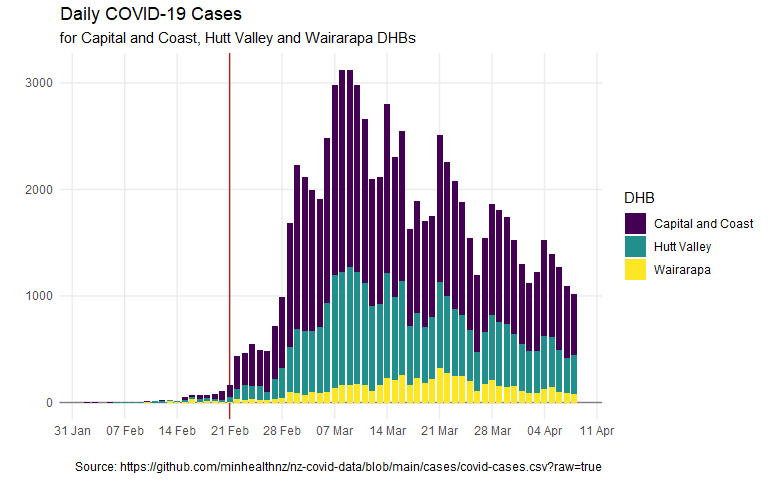
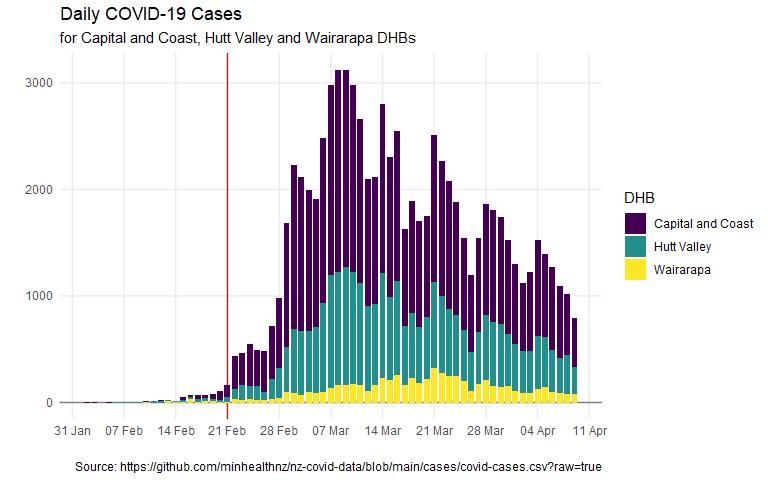
Refresh for 20220410

Changed region(s): [[0.125, 0.125, 0.8125, 0.9062]]

diff --git a/covid-time-series.md b/covid-time-series.md
@@ -18,7 +18,7 @@ cases_df <- read_csv(case_data_url) %>%
 
     ## Warning: One or more parsing issues, see `problems()` for details
 
-    ## Rows: 760540 Columns: 7
+    ## Rows: 767295 Columns: 7
 
     ## -- Column specification --------------------------------------------------------
     ## Delimiter: ","
@@ -145,7 +145,7 @@ maxima <- dhb_cases_stl_df %>%
   summarise(cases = max(cases), adjusted = max(season_adjust), trend = max(trend))
 ```
 
-Looking at raw case numbers, the peak on 2022-03-09 was about 3.1 times what it is now.
+Looking at raw case numbers, the peak on 2022-03-09 was about 3.9 times what it is now.
 
 But when adjusting for the weekly pattern, it was 2.9 times the current adjusted value, and the trend was about 2.5 times the current trend line.
 
